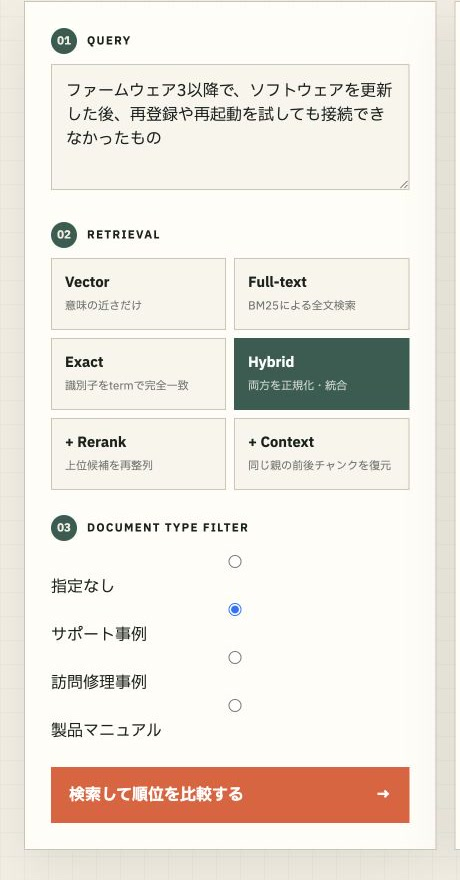
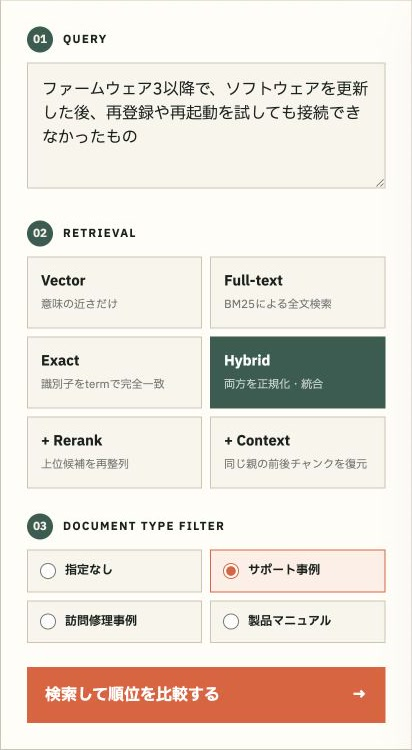
文書種別radioの配置を修正

diff --git a/03-search-quality-lab/backend/static/style.css b/03-search-quality-lab/backend/static/style.css
@@ -69,9 +69,10 @@ textarea:focus, select:focus, input:focus { border-color: var(--moss); box-shado
 .mode-grid input:checked + span { color: white; background: var(--moss); border-color: var(--moss); }
 .mode-grid input:checked + span small { color: rgba(255,255,255,.72); }
 .document-type-filter { display: grid; grid-template-columns: 1fr 1fr; gap: 8px; }
-.document-type-filter input { position: absolute; opacity: 0; pointer-events: none; }
-.document-type-filter span { display: block; padding: 12px; background: #f8f5eb; border: 1px solid var(--line); cursor: pointer; font-size: 12px; font-weight: 600; }
-.document-type-filter input:checked + span { color: white; background: var(--accent); border-color: var(--accent); }
+.document-type-filter label { display: flex; gap: 9px; align-items: center; padding: 12px; background: #f8f5eb; border: 1px solid var(--line); cursor: pointer; }
+.document-type-filter input { width: 16px; height: 16px; margin: 0; padding: 0; flex: 0 0 auto; accent-color: var(--accent); cursor: pointer; }
+.document-type-filter span { font-size: 12px; font-weight: 600; line-height: 1.4; }
+.document-type-filter label:has(input:checked) { border-color: var(--accent); background: rgba(231, 92, 53, 0.09); }
 
 .search-button { display: flex; width: 100%; justify-content: space-between; margin-top: 24px; padding: 16px 18px; color: white; background: var(--accent); border: 0; cursor: pointer; font-weight: 700; }
 .search-button:hover { background: #c94725; }

diff --git a/03-search-quality-lab/backend/static/index.html b/03-search-quality-lab/backend/static/index.html
@@ -7,7 +7,7 @@
     <link rel="preconnect" href="https://fonts.googleapis.com" />
     <link rel="preconnect" href="https://fonts.gstatic.com" crossorigin />
     <link href="https://fonts.googleapis.com/css2?family=IBM+Plex+Sans+JP:wght@400;500;600;700&family=Newsreader:opsz,wght@6..72,600&display=swap" rel="stylesheet" />
-    <link rel="stylesheet" href="/static/style.css" />
+    <link rel="stylesheet" href="/static/style.css?v=5" />
   </head>
   <body>
     <main class="shell">
@@ -81,6 +81,6 @@
         </section>
       </section>
     </main>
-    <script type="module" src="/static/app.js?v=4"></script>
+    <script type="module" src="/static/app.js?v=5"></script>
   </body>
 </html>
